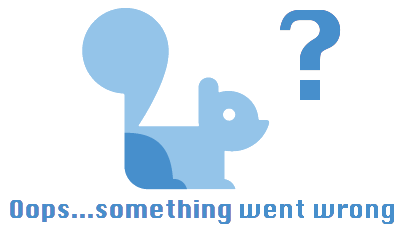
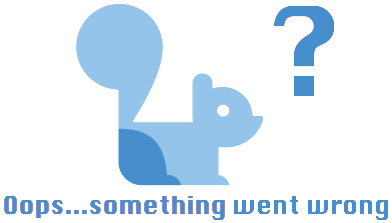
updated styling for all login related pages

diff --git a/WebContent/create_account.html b/WebContent/create_account.html
@@ -9,13 +9,20 @@
 		<title>Create QuizMe Account</title>
 	</head>
 	<body>
-		<h1 class="auth-center">Create New QuizMe Account</h1>
-		<p class="auth-center">Please enter proposed name and password.</p>
-		<form class="auth-center" action="AccountCreationServlet" method="post">
-			<p>Email: <input type="text" name="email" /></p>
-			<p>Password: <input type="text" name="password" /></p>
-			<p>Full Name: <input type="text" name="name" /></p>
-			<input  type="submit" value="Create" />
-		</form>
+		<div style="text-align:center">
+			<div style="display:inline-block">
+				<h1 class="auth-center">Create New QuizMe Account</h1><br>
+				<p class="auth-center"><img alt="QuizMe Mascot" src="images/quizme_mascot.png"></p><br>
+				<p class="auth-center">Please enter proposed name and password</p><br>
+				<form class="auth-center" action="AccountCreationServlet" method="post">
+					<p class="auth-left">Email: <input class="field-right" type="text" name="email" /></p><br>
+					<p class="auth-left">Password: <input class="field-right" type="text" name="password" /></p><br>
+					<p class="auth-left">Full Name: <input class="field-right" type="text" name="name" /></p>
+					<p><br></p>
+					<input class="auth-center" type="submit" value="Create" />
+				</form><br>
+				<p class="auth-center"><a class="auth-center" href="index.jsp"><button class="auth-center" type="button">Go Back</button></a></p>
+			</div>
+		</div>
 	</body>
 </html>

diff --git a/WebContent/style.css b/WebContent/style.css
@@ -122,11 +122,17 @@
 	width: 100%;
 	margin-top: 2px;
   	margin-bottom: 2px; }
+.auth-left{
+	text-align: left;
+	display: inline-block;
+	width: 100%;
+	margin-top: 2px;
+  	margin-bottom: 2px; }
 .img-center{
 	text-align: center;
 	display: inline-block;
-	margin-top: 8px;
-  	margin-bottom: 8px; }
+	margin-top: 2px;
+  	margin-bottom: 2px; }
 .field-right{
 	width: 75%;
 	float: right; }
